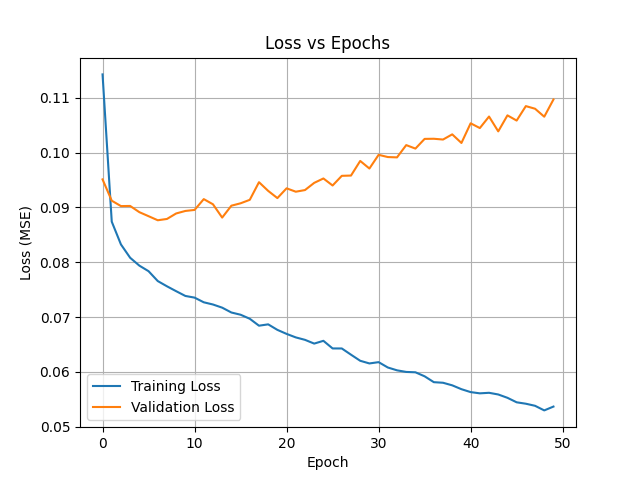
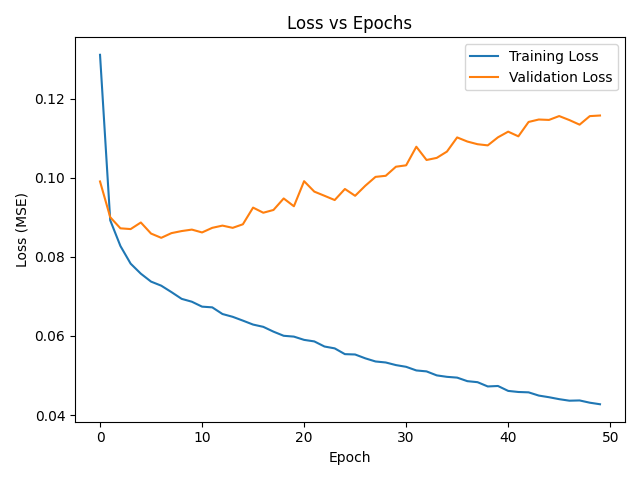
Save trained ANN model and update plots

diff --git a/code/ann_model.py b/code/ann_model.py
@@ -1,39 +1,46 @@
-# ann_model.py
-# ANN model with training and saved plots
+# ANN model with training, evaluation, plots, and activation prediction
 
 import os
 import pandas as pd
+import numpy as np
 import matplotlib.pyplot as plt
 
 from sklearn.model_selection import train_test_split
 from sklearn.preprocessing import StandardScaler
+
 from tensorflow.keras.models import Sequential
 from tensorflow.keras.layers import Dense
 from tensorflow.keras.optimizers import Adam
 
 
 # --------------------------------------------------
-# 1. Load dataset
+# 1. Paths
 # --------------------------------------------------
 BASE_DIR = os.path.dirname(os.path.abspath(__file__))
-DATA_PATH = os.path.join(BASE_DIR, "..", "data", "dataset", "training_data.csv")
 
-df = pd.read_csv(DATA_PATH)
+TRAINING_PATH = os.path.join(BASE_DIR, "..", "data", "dataset", "training_data.csv")
+ACTIVATION_PATH = os.path.join(BASE_DIR, "..", "data", "dataset", "activation_data.csv")
+
+
+# --------------------------------------------------
+# 2. Load dataset
+# --------------------------------------------------
+df = pd.read_csv(TRAINING_PATH)
 print("Dataset loaded successfully")
 
-
-# --------------------------------------------------
-# 2. Target
-# --------------------------------------------------
 target_column = "Performance_Metric"
 
 
 # --------------------------------------------------
-# 3. Numeric features only
+# 3. Use numeric features only
 # --------------------------------------------------
 numeric_df = df.select_dtypes(include=["number"])
+
 X = numeric_df.drop(columns=[target_column])
 y = numeric_df[target_column]
+
+# SAVE feature names (IMPORTANT)
+feature_columns = X.columns
 
 
 # --------------------------------------------------
@@ -58,13 +65,9 @@ X_test = scaler.transform(X_test)
 model = Sequential([
     Dense(64, activation="relu", input_shape=(X_train.shape[1],)),
     Dense(32, activation="relu"),
-    Dense(1)
+    Dense(1, activation="linear")
 ])
 
-
-# --------------------------------------------------
-# 7. Compile
-# --------------------------------------------------
 model.compile(
     optimizer=Adam(learning_rate=0.001),
     loss="mse",
@@ -73,31 +76,37 @@ model.compile(
 
 
 # --------------------------------------------------
-# 8. Train (IMPORTANT: history is defined HERE)
+# 7. Train model
 # --------------------------------------------------
 history = model.fit(
     X_train,
     y_train,
+    validation_split=0.2,
     epochs=50,
     batch_size=32,
-    validation_split=0.2,
     verbose=1
 )
 
 
 # --------------------------------------------------
-# 9. Evaluate
+# 8. Evaluate on test data
 # --------------------------------------------------
-loss, mae = model.evaluate(X_test, y_test, verbose=0)
+test_loss, test_mae = model.evaluate(X_test, y_test, verbose=0)
 print("Training completed successfully ✅")
-print(f"Test MAE: {mae:.4f}")
+print(f"Test MAE: {test_mae}")
+
+# --------------------------------------------------
+# Save trained model
+# --------------------------------------------------
+MODEL_PATH = os.path.join(BASE_DIR, "ann_model.keras")
+model.save(MODEL_PATH)
+print(f"Model saved at: {MODEL_PATH}")
+
 
 
 # --------------------------------------------------
-# 10. Save plots (NO GUI REQUIRED)
+# 9. Plot & save training curves
 # --------------------------------------------------
-
-# Loss plot
 plt.figure()
 plt.plot(history.history["loss"], label="Training Loss")
 plt.plot(history.history["val_loss"], label="Validation Loss")
@@ -105,11 +114,10 @@ plt.xlabel("Epoch")
 plt.ylabel("Loss (MSE)")
 plt.title("Loss vs Epochs")
 plt.legend()
-plt.grid(True)
+plt.tight_layout()
 plt.savefig("loss_vs_epochs.png")
 plt.close()
 
-# MAE plot
 plt.figure()
 plt.plot(history.history["mae"], label="Training MAE")
 plt.plot(history.history["val_mae"], label="Validation MAE")
@@ -117,8 +125,25 @@ plt.xlabel("Epoch")
 plt.ylabel("MAE")
 plt.title("MAE vs Epochs")
 plt.legend()
-plt.grid(True)
+plt.tight_layout()
 plt.savefig("mae_vs_epochs.png")
 plt.close()
 
-print("Plots saved: loss_vs_epochs.png and mae_vs_epochs.png")
+
+# --------------------------------------------------
+# 10. Activation data prediction (FIXED)
+# --------------------------------------------------
+activation_df = pd.read_csv(ACTIVATION_PATH)
+
+activation_numeric = activation_df.select_dtypes(include=["number"])
+
+# FORCE same columns as training
+activation_numeric = activation_numeric.reindex(
+    columns=feature_columns,
+    fill_value=0
+)
+
+activation_scaled = scaler.transform(activation_numeric)
+activation_prediction = model.predict(activation_scaled)
+
+print("Activation prediction:", activation_prediction[0][0])
